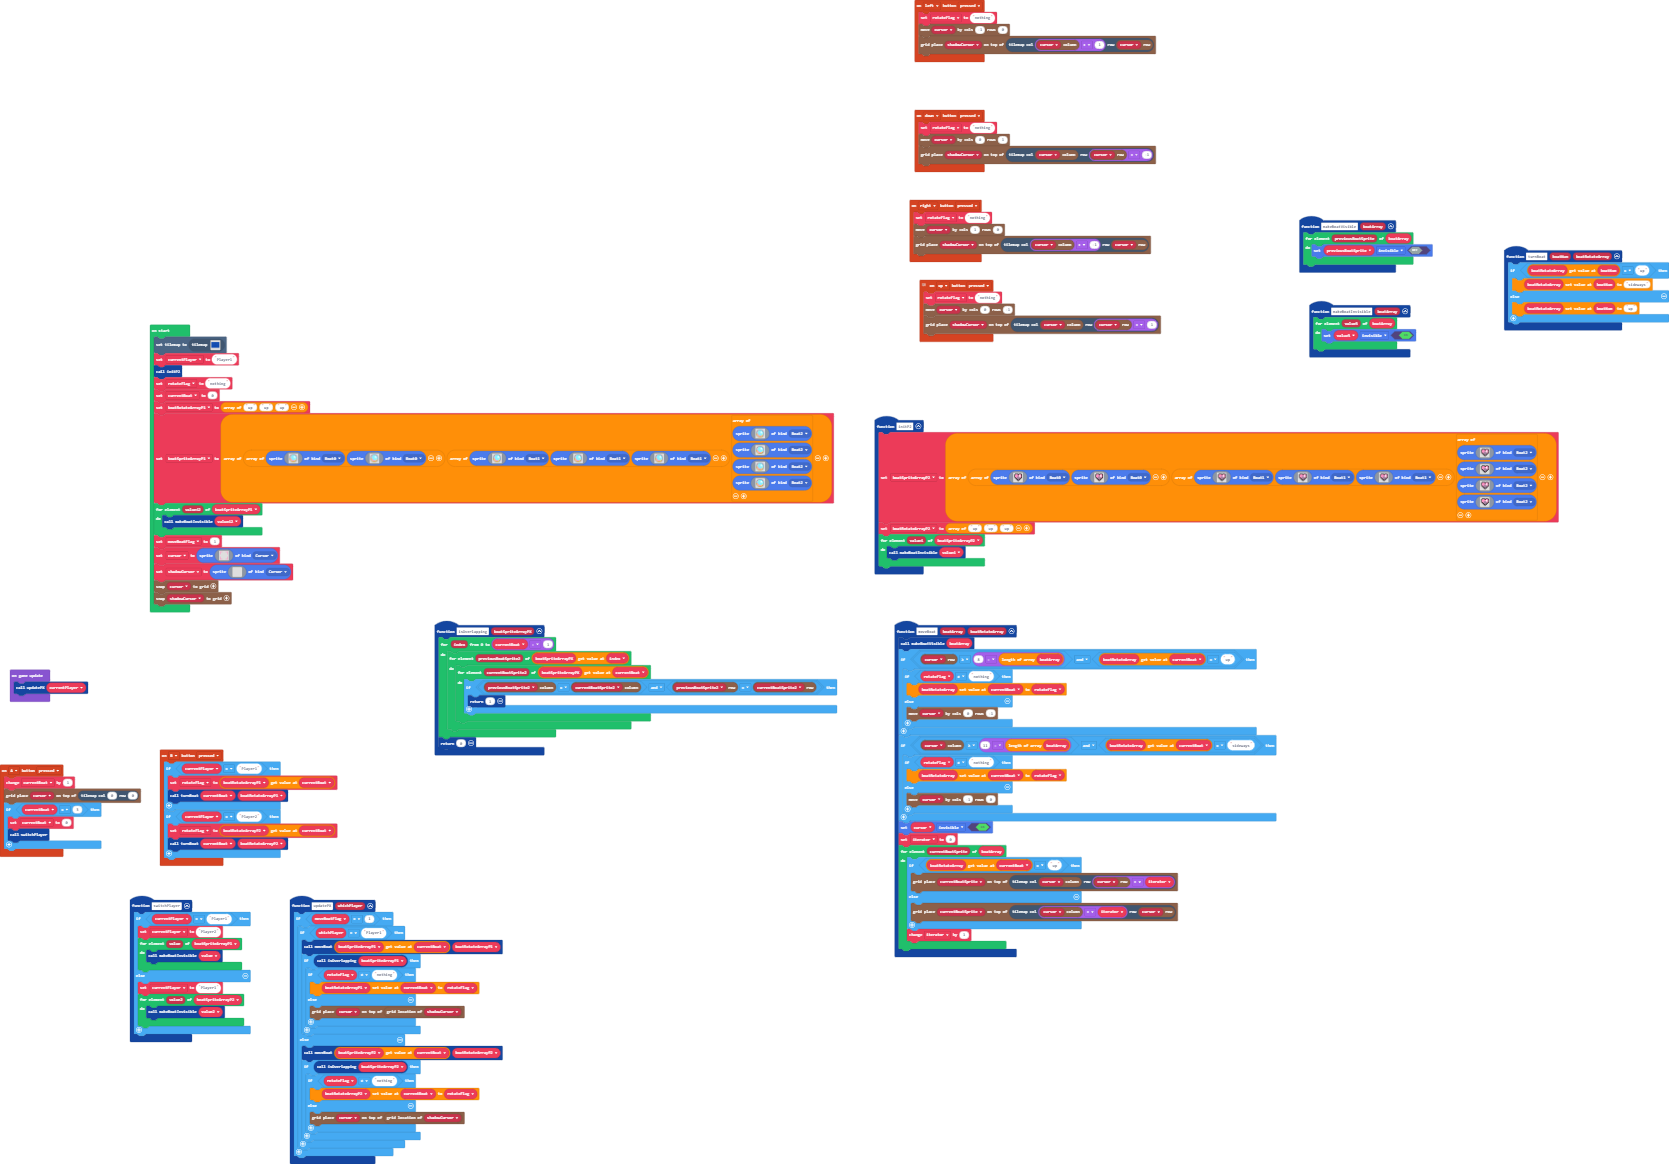
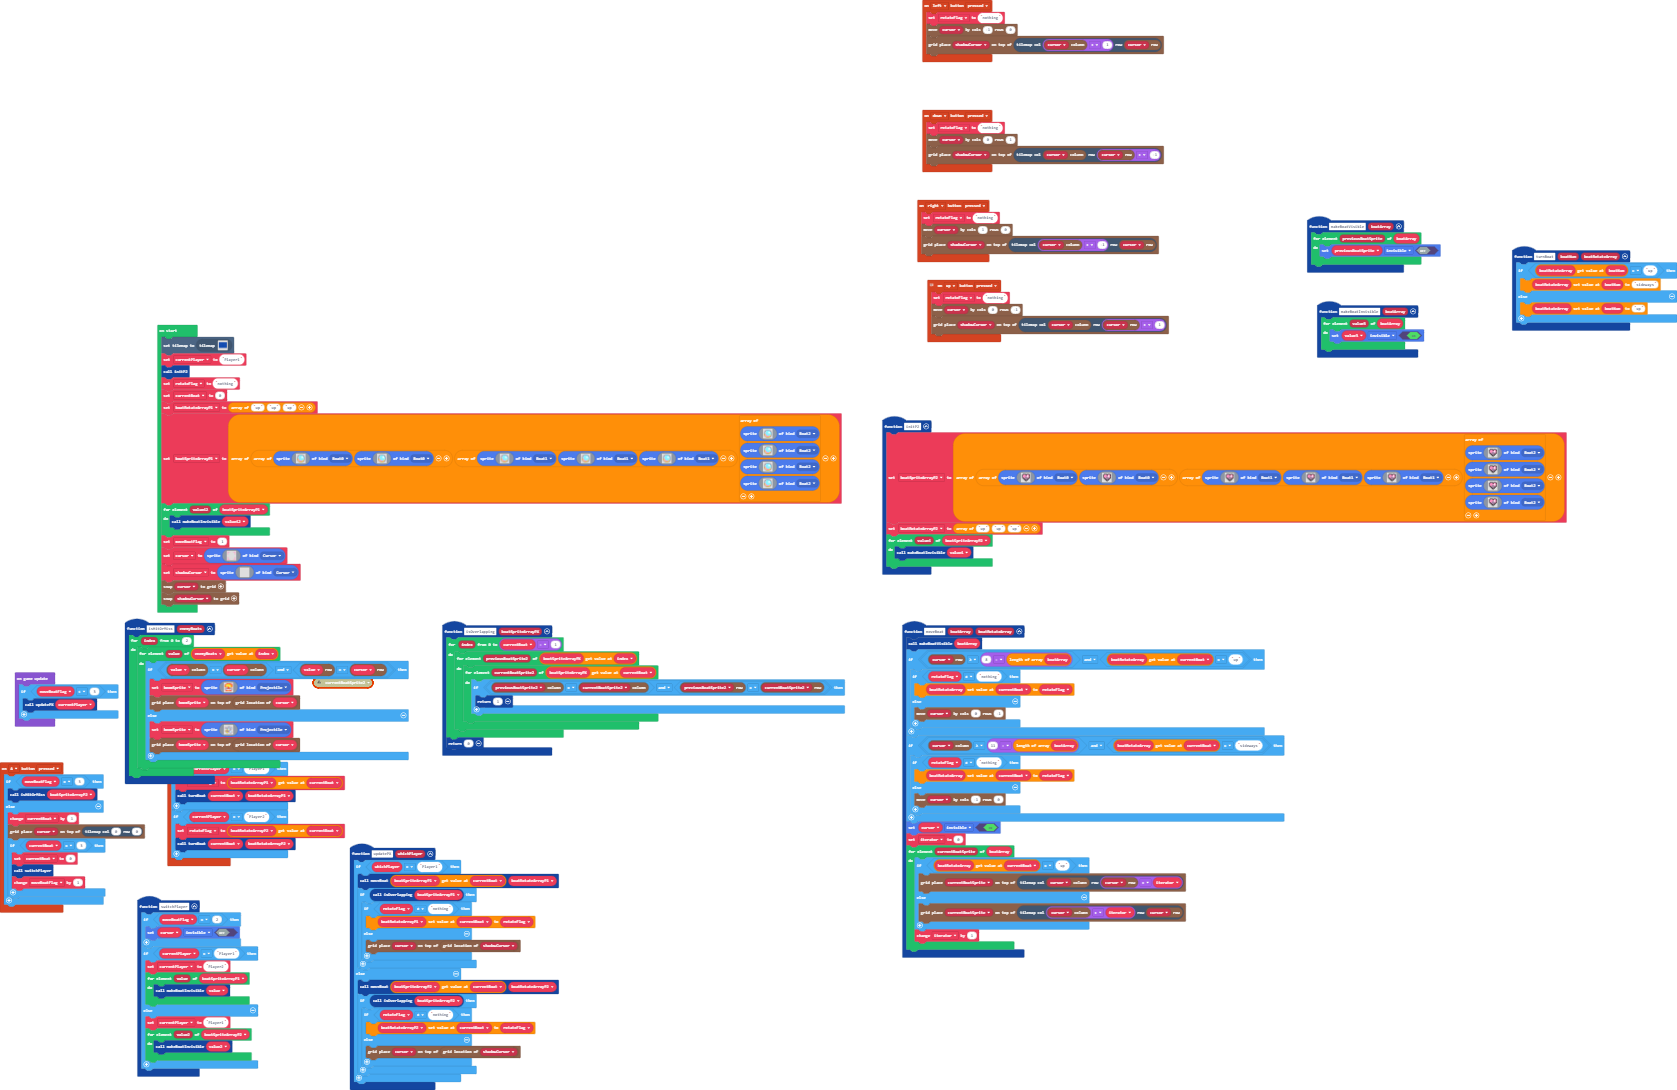
Update main.blocks, main.ts

diff --git a/main.ts b/main.ts
@@ -11,24 +11,22 @@ controller.up.onEvent(ControllerButtonEvent.Pressed, function () {
     grid.place(shadowCursor, tiles.getTileLocation(grid.spriteCol(cursor), grid.spriteRow(cursor) + 1))
 })
 function updatePX (whichPlayer: string) {
-    if (moveBoatFlag == 1) {
-        if (whichPlayer == "Player1") {
-            moveBoat(boatSpriteArrayP1[currentBoat], boatRotateArrayP1)
-            if (isOverlapping(boatSpriteArrayP1)) {
-                if (rotateFlag != "nothing") {
-                    boatRotateArrayP1[currentBoat] = rotateFlag
-                } else {
-                    grid.place(cursor, grid.getLocation(shadowCursor))
-                }
+    if (whichPlayer == "Player1") {
+        moveBoat(boatSpriteArrayP1[currentBoat], boatRotateArrayP1)
+        if (isOverlapping(boatSpriteArrayP1)) {
+            if (rotateFlag != "nothing") {
+                boatRotateArrayP1[currentBoat] = rotateFlag
+            } else {
+                grid.place(cursor, grid.getLocation(shadowCursor))
             }
-        } else {
-            moveBoat(boatSpriteArrayP2[currentBoat], boatRotateArrayP2)
-            if (isOverlapping(boatSpriteArrayP2)) {
-                if (rotateFlag != "nothing") {
-                    boatRotateArrayP2[currentBoat] = rotateFlag
-                } else {
-                    grid.place(cursor, grid.getLocation(shadowCursor))
-                }
+        }
+    } else {
+        moveBoat(boatSpriteArrayP2[currentBoat], boatRotateArrayP2)
+        if (isOverlapping(boatSpriteArrayP2)) {
+            if (rotateFlag != "nothing") {
+                boatRotateArrayP2[currentBoat] = rotateFlag
+            } else {
+                grid.place(cursor, grid.getLocation(shadowCursor))
             }
         }
     }
@@ -49,11 +47,16 @@ function makeBoatVisible (boatArray: Sprite[]) {
     }
 }
 controller.A.onEvent(ControllerButtonEvent.Pressed, function () {
-    currentBoat += 1
-    grid.place(cursor, tiles.getTileLocation(0, 0))
-    if (currentBoat == 3) {
-        currentBoat = 0
-        switchPlayer()
+    if (moveBoatFlag == 3) {
+        isHitOrMiss(boatSpriteArrayP2)
+    } else {
+        currentBoat += 1
+        grid.place(cursor, tiles.getTileLocation(0, 0))
+        if (currentBoat == 3) {
+            currentBoat = 0
+            switchPlayer()
+            moveBoatFlag += 1
+        }
     }
 })
 controller.left.onEvent(ControllerButtonEvent.Pressed, function () {
@@ -62,6 +65,9 @@ controller.left.onEvent(ControllerButtonEvent.Pressed, function () {
     grid.place(shadowCursor, tiles.getTileLocation(grid.spriteCol(cursor) + 1, grid.spriteRow(cursor)))
 })
 function switchPlayer () {
+    if (moveBoatFlag == 2) {
+        cursor.setFlag(SpriteFlag.Invisible, false)
+    }
     if (currentPlayer == "Player1") {
         currentPlayer = "Player2"
         for (let value of boatSpriteArrayP1) {
@@ -104,6 +110,53 @@ function moveBoat (boatArray: any[], boatRotateArray: string[]) {
             grid.place(currentBoatSprite, tiles.getTileLocation(grid.spriteCol(cursor) + iterator, grid.spriteRow(cursor)))
         }
         iterator += 1
+    }
+}
+function isHitOrMiss (enemyBoats: Sprite[][]) {
+    for (let index = 0; index <= 2; index++) {
+        for (let value of enemyBoats[index]) {
+            if (grid.spriteCol(value) == grid.spriteCol(cursor) && grid.spriteRow(value) == grid.spriteRow(cursor)) {
+                boomSprite = sprites.create(img`
+                    . . . . 2 2 2 2 2 2 2 2 . . . . 
+                    . . . 2 4 4 4 5 5 4 4 4 2 2 2 . 
+                    . 2 2 5 5 d 4 5 5 5 4 4 4 4 2 . 
+                    . 2 4 5 5 5 5 d 5 5 5 4 5 4 2 2 
+                    . 2 4 d d 5 5 5 5 5 5 d 4 4 4 2 
+                    2 4 5 5 d 5 5 5 d d d 5 5 5 4 4 
+                    2 4 5 5 4 4 4 d 5 5 d 5 5 5 4 4 
+                    4 4 4 4 . . 2 4 5 5 . . 4 4 4 4 
+                    . . b b b b 2 4 4 2 b b b b . . 
+                    . b d d d d 2 4 4 2 d d d d b . 
+                    b d d b b b 2 4 4 2 b b b d d b 
+                    b d d b b b b b b b b b b d d b 
+                    b b d 1 1 3 1 1 d 1 d 1 1 d b b 
+                    . . b b d d 1 1 3 d d 1 b b . . 
+                    . . 2 2 4 4 4 4 4 4 4 4 2 2 . . 
+                    . . . 2 2 4 4 4 4 4 2 2 2 . . . 
+                    `, SpriteKind.Projectile)
+                grid.place(boomSprite, grid.getLocation(cursor))
+            } else {
+                boomSprite = sprites.create(img`
+                    . . . . . . . . b b . . . . . . 
+                    . . . . . . . b 9 1 b . . . . . 
+                    . . b b . . . b 9 9 b . . . . . 
+                    . b 9 1 b . . b b b . . b b b . 
+                    . b 3 9 b . b b b b . b 9 9 1 b 
+                    . b b b b b 9 9 1 1 b b 3 9 9 b 
+                    . . . . b 9 d 9 1 1 b b b b b . 
+                    . . . . b 5 3 9 9 9 b . . . . . 
+                    . . b b b 5 3 3 d 9 b . . . . . 
+                    . b 5 1 b b 5 5 9 b b b b . . . 
+                    . b 5 5 b b b b b b 3 9 9 3 . . 
+                    . b b b b b b b . b 9 1 1 9 b . 
+                    . . . b 5 5 1 b . b 9 1 1 9 b . 
+                    . . . b 5 5 5 b . b 3 9 9 3 b . 
+                    . . . . b b b . . . b b b b . . 
+                    . . . . . . . . . . . . . . . . 
+                    `, SpriteKind.Projectile)
+                grid.place(boomSprite, grid.getLocation(cursor))
+            }
+        }
     }
 }
 controller.down.onEvent(ControllerButtonEvent.Pressed, function () {
@@ -300,6 +353,7 @@ function isOverlapping (boatSpriteArrayPX: Sprite[][]) {
     }
     return 0
 }
+let boomSprite: Sprite = null
 let iterator = 0
 let boatRotateArrayP2: string[] = []
 let boatSpriteArrayP2: Sprite[][] = []
@@ -527,5 +581,7 @@ shadowCursor = sprites.create(img`
 grid.snap(cursor)
 grid.snap(shadowCursor)
 game.onUpdate(function () {
-    updatePX(currentPlayer)
+    if (moveBoatFlag < 3) {
+        updatePX(currentPlayer)
+    }
 })
